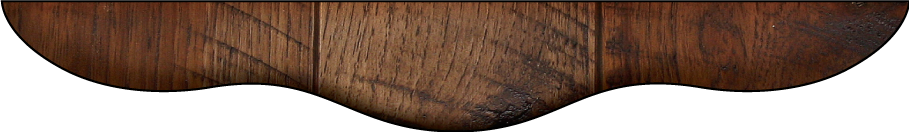
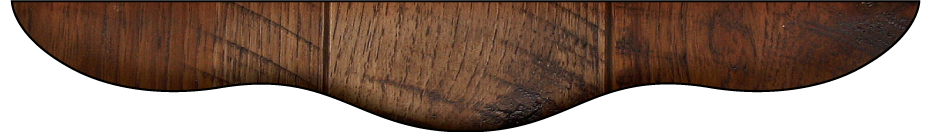
Rebuild header

diff --git a/vendor/assets/stylesheets/spree/frontend/screen.css.scss b/vendor/assets/stylesheets/spree/frontend/screen.css.scss
@@ -240,16 +240,14 @@ a.button {
 /*--------------------------------------*/
 
 header#header {
-		background-image: image-url("spree/frontend/patsyHeader.png");
-		background-repeat: no-repeat;
-		background-position: top center;
-
-		position: fixed;
+		margin: 0 auto;
 		width: 100%;
-		height: 132px;
-		top: 0;
-		z-index: 1;
+		height: 200px;
+		max-width: 1200px;
 
+		background: image-url("spree/frontend/patsyHeader.png") no-repeat top center;
+		text-align: center;
+		z-index: 1;
 
   div.announcement {
 		line-height: 1.75em;
@@ -352,7 +350,6 @@ nav #main-nav-bar {
     }
 
     &#link-to-cart {
-      float: right;
       padding-left: 24px;
       // background: image-url("spree/frontend/cart.png") no-repeat left center;
 
@@ -1174,6 +1171,7 @@ table.order-summary {
 /* #Media Queries
 ================================================== */
 
+
 /* Smaller than standard 960 (devices and browsers) */
 @media only screen and (max-width: 959px) {
 
@@ -1200,6 +1198,28 @@ table.order-summary {
     -webkit-text-size-adjust: none;
   }
 
+	#sidebar_products_search {
+		.navigation {
+		  float: left;
+			width: 50%;
+
+			li {
+			  padding-top: 5px;
+			}
+		}
+
+		input.submit {
+		  margin-top: 55px;
+			margin-left: 45px;
+		}
+	}
+
+	header#header {
+		background-size: cover;
+		height: 227px;
+		background-image: image-url("spree/frontend/patsyHeader-mobile.png");
+	}
+
   #order_details .steps-data div.columns,
   #order_summary .steps-data div.columns {
     padding: 0;
@@ -1220,6 +1240,7 @@ table.order-summary {
   }
 
   ul#nav-bar {
+		margin-bottom: 0;
     text-align: center;
   }
 
@@ -1343,6 +1364,12 @@ table.order-summary {
 
 /* Mobile Portrait Size to Mobile Landscape Size (devices and browsers) */
 @media only screen and (max-width: 479px) {
+
+	header#header{
+		min-width: 300px;
+		border-bottom: 2px solid black;
+		background-image: image-url("spree/frontend/patsyHeader-mobile-small.png");
+	}
 
   .progress-steps li {
     padding: 0;
